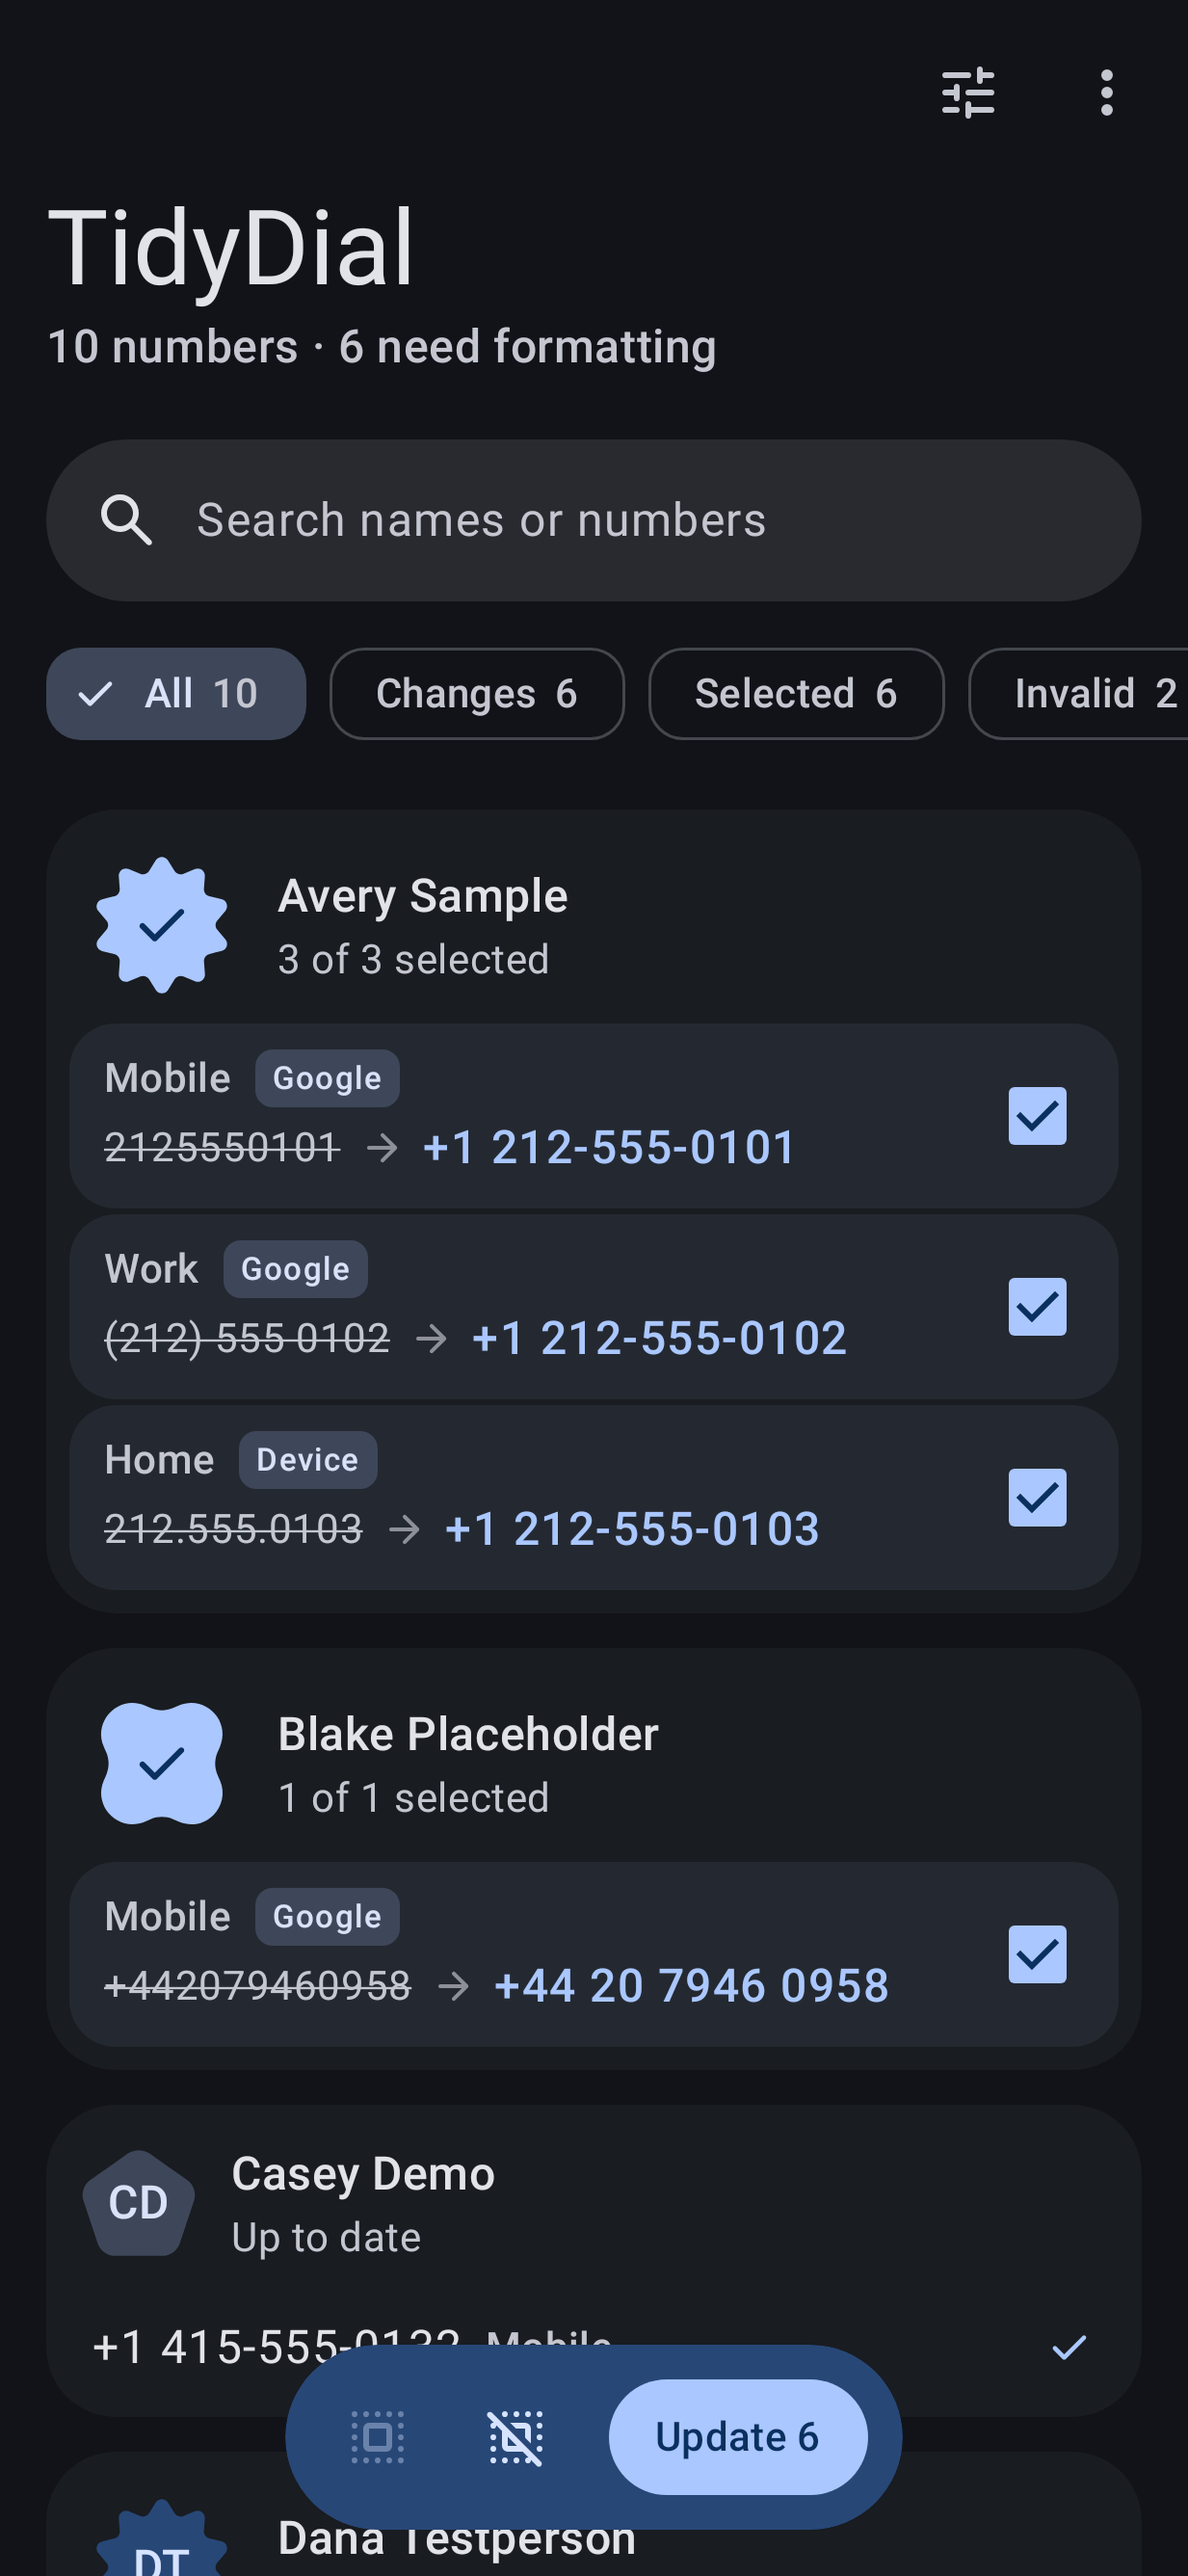
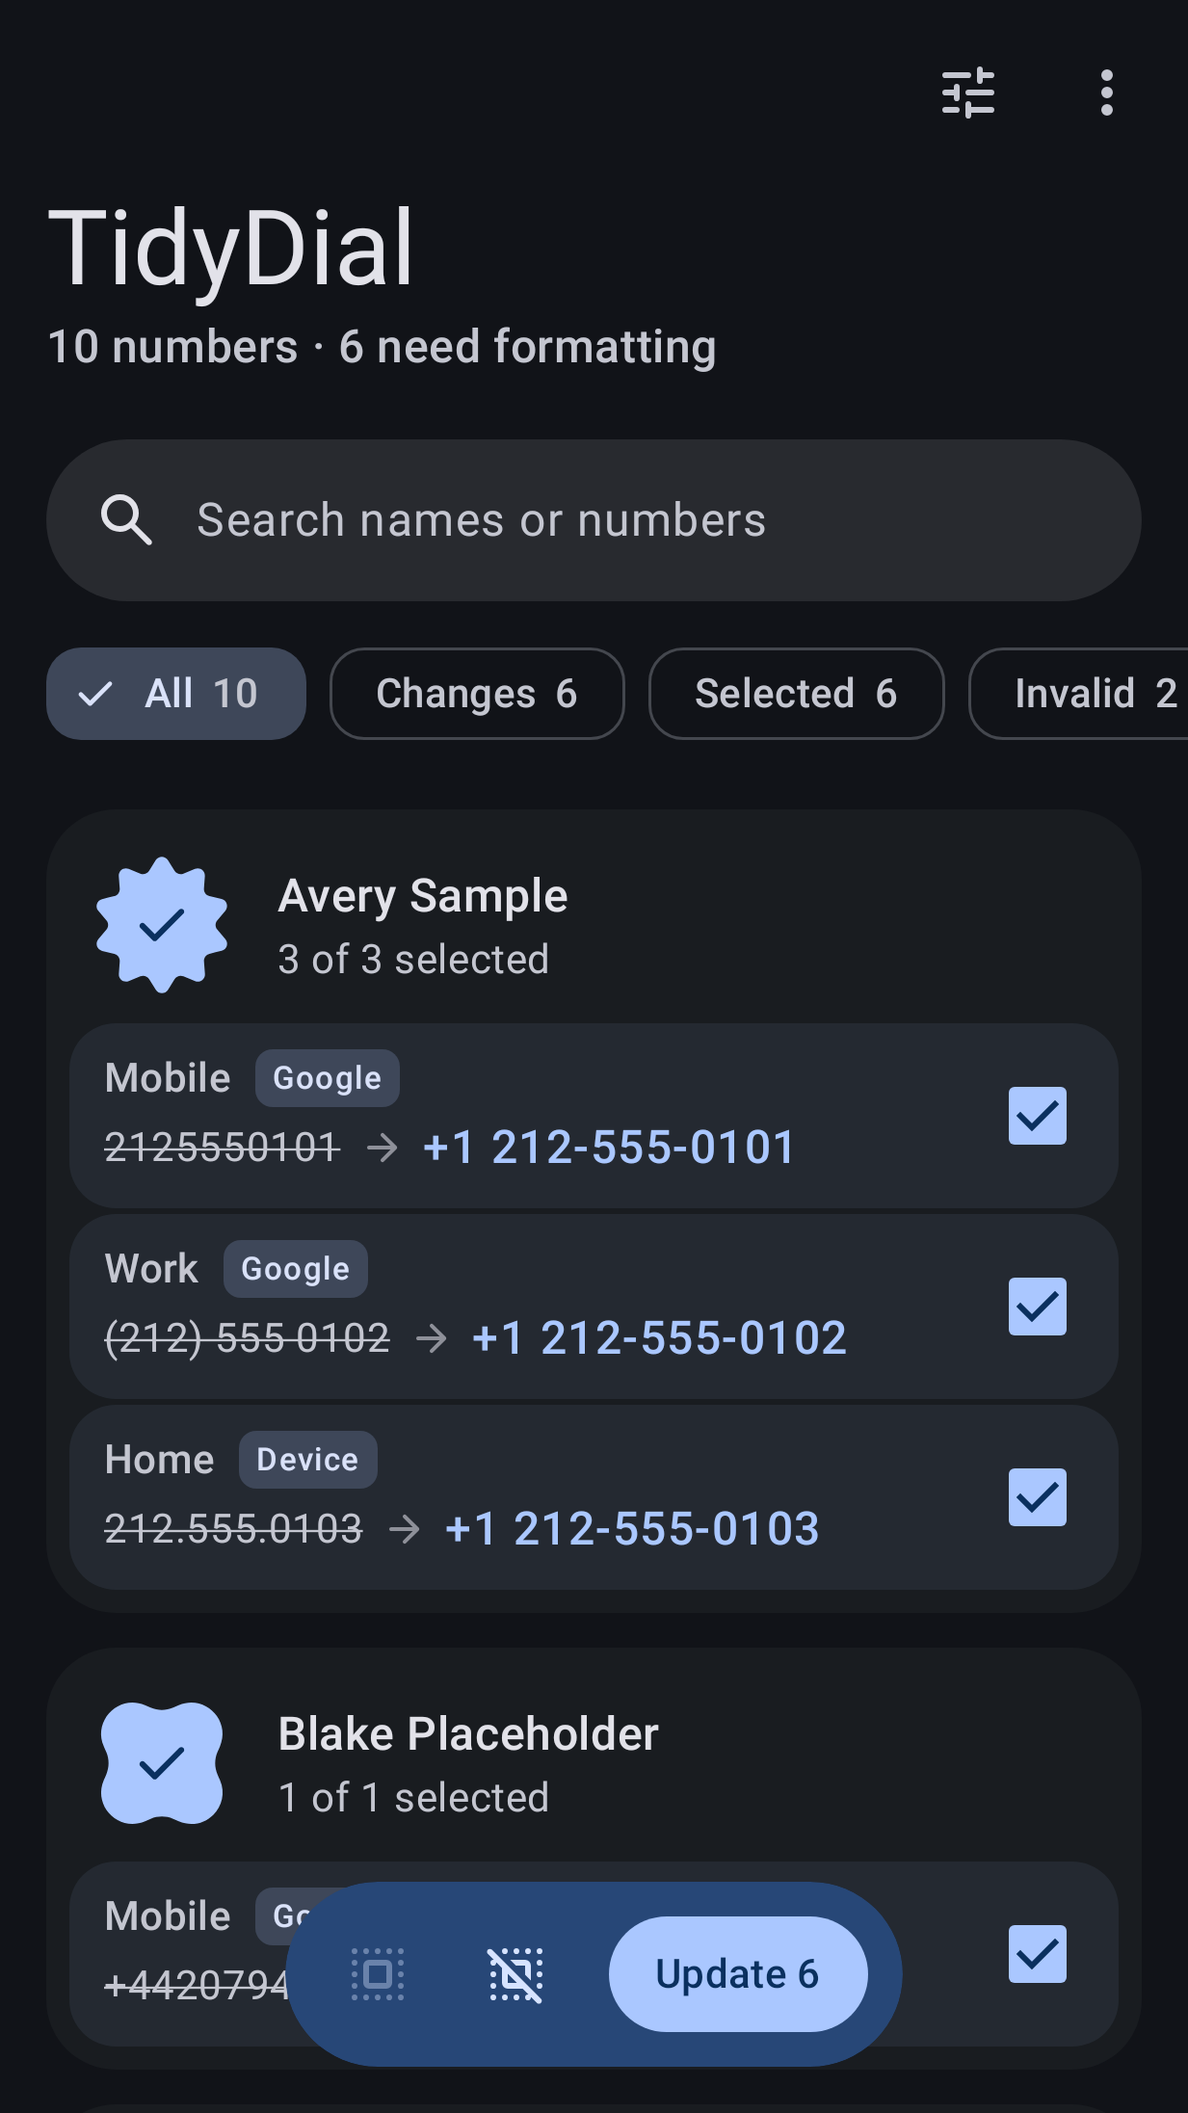
Render store screenshots at 9:16 for Google Play
Play rejects phone screenshots whose long side is more than twice the
short side; the 1233x2673 captures were 2.17:1. Adds 9:16 (1233x2193)
variants of the contacts (light and dark), format options, welcome and
About screenshot tests and uses them as the fastlane phone screenshots.

diff --git a/app/src/test/java/net/evopoint/tidydial/ui/contacts/ContactsScreenScreenshotTest.kt b/app/src/test/java/net/evopoint/tidydial/ui/contacts/ContactsScreenScreenshotTest.kt
@@ -83,6 +83,21 @@ class ContactsScreenScreenshotTest {
         captureRoot("light")
     }
 
+    // Google Play phone screenshots: 9:16 (1233x2193 px), copied to fastlane phoneScreenshots.
+    @Test
+    @Config(qualifiers = "w411dp-h731dp-xxhdpi")
+    fun storeLight() {
+        setScreen(SampleData.uiState(canUndo = true))
+        captureRoot("store_light")
+    }
+
+    @Test
+    @Config(qualifiers = "w411dp-h731dp-night-xxhdpi")
+    fun storeDark() {
+        setScreen(dark = true)
+        captureRoot("store_dark")
+    }
+
     @Test
     @Config(qualifiers = "+night")
     fun dark() {

diff --git a/app/src/test/java/net/evopoint/tidydial/ui/options/FormatOptionsScreenshotTest.kt b/app/src/test/java/net/evopoint/tidydial/ui/options/FormatOptionsScreenshotTest.kt
@@ -27,6 +27,11 @@ class FormatOptionsScreenshotTest {
     @Test
     fun formatOptions() = capture("format_options")
 
+    // Google Play phone screenshots: 9:16 (1233x2193 px), copied to fastlane phoneScreenshots.
+    @Test
+    @Config(qualifiers = "w411dp-h731dp-xxhdpi")
+    fun store() = capture("store_format_options")
+
     @Test
     @Config(qualifiers = "w411dp-h1900dp-xxhdpi")
     fun formatOptionsFull() = capture("format_options_full")

diff --git a/app/src/test/java/net/evopoint/tidydial/ui/about/AboutScreenshotTest.kt b/app/src/test/java/net/evopoint/tidydial/ui/about/AboutScreenshotTest.kt
@@ -22,6 +22,11 @@ class AboutScreenshotTest {
     @Test
     fun about() = capture("about")
 
+    // Google Play phone screenshots: 9:16 (1233x2193 px), copied to fastlane phoneScreenshots.
+    @Test
+    @Config(qualifiers = "w411dp-h731dp-xxhdpi")
+    fun store() = capture("store_about")
+
     @Test
     @Config(qualifiers = "w411dp-h891dp-night-xxhdpi")
     fun aboutDark() = capture("about_dark", darkTheme = true)

diff --git a/app/src/test/java/net/evopoint/tidydial/ui/permission/PermissionScreenScreenshotTest.kt b/app/src/test/java/net/evopoint/tidydial/ui/permission/PermissionScreenScreenshotTest.kt
@@ -44,6 +44,14 @@ class PermissionScreenScreenshotTest {
         capture("permission_light")
     }
 
+    // Google Play phone screenshots: 9:16 (1233x2193 px), copied to fastlane phoneScreenshots.
+    @Test
+    @Config(qualifiers = "w411dp-h731dp-xxhdpi")
+    fun store() {
+        show()
+        capture("store_permission")
+    }
+
     @Test
     @Config(qualifiers = "w411dp-h891dp-night-xxhdpi")
     fun dark() {
